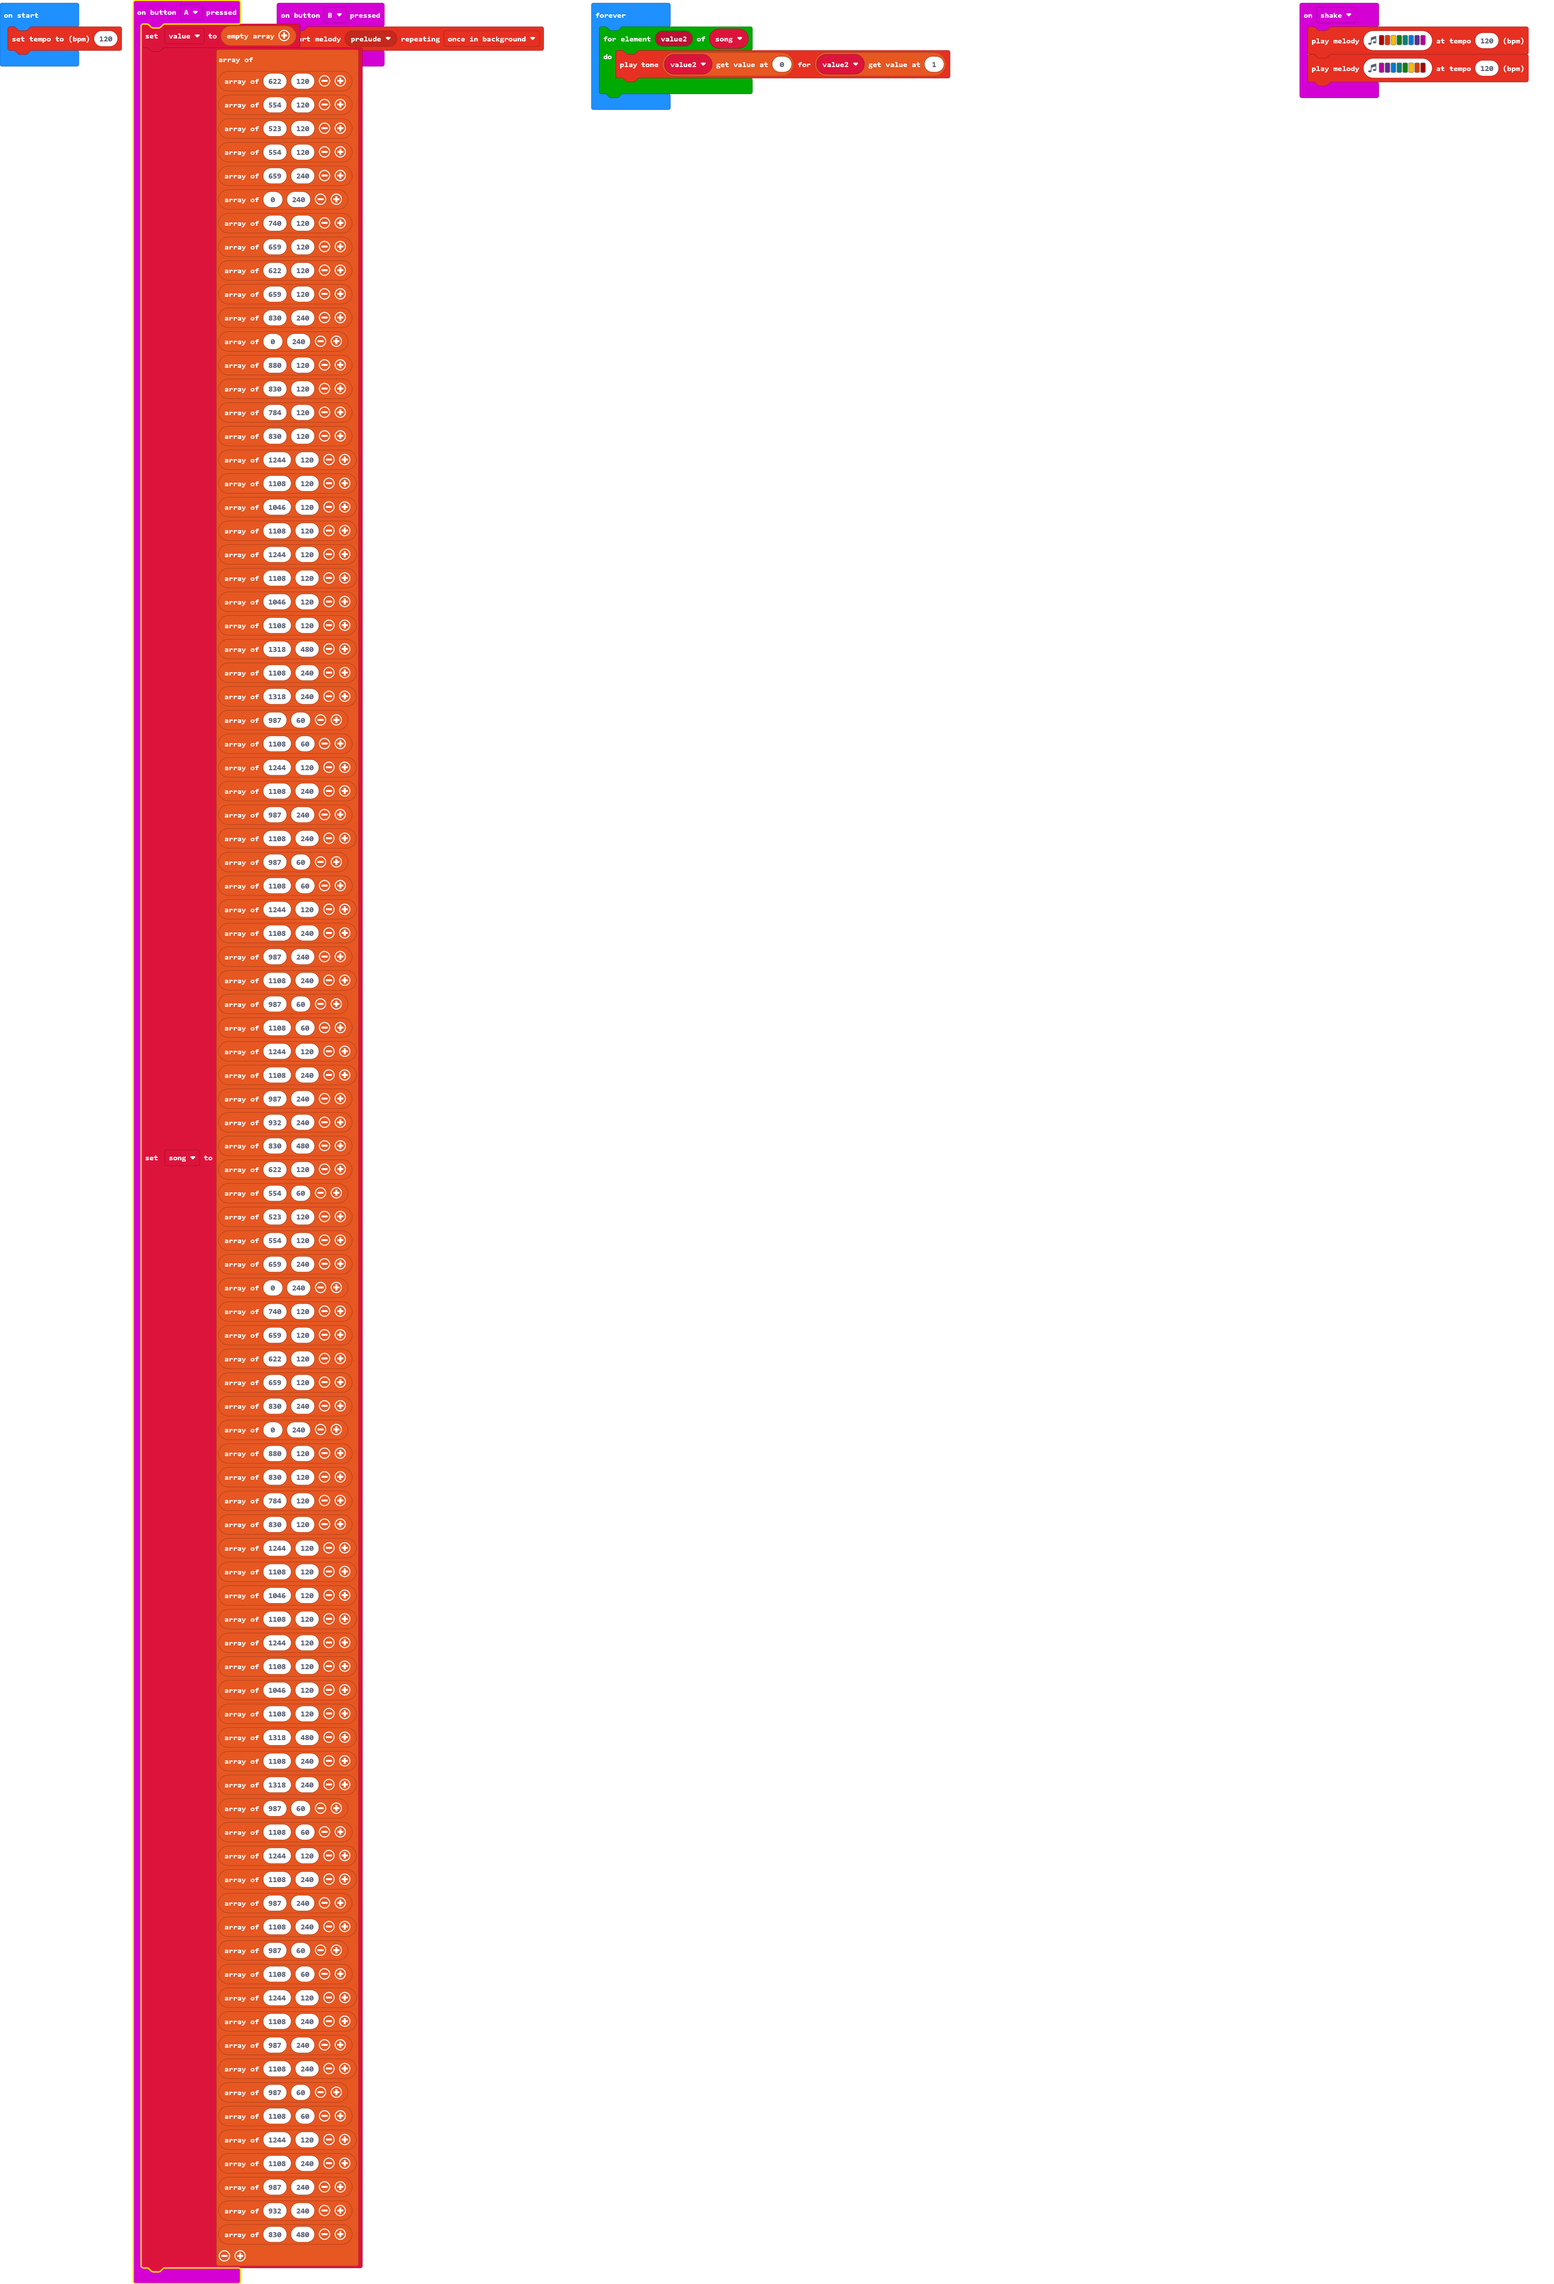
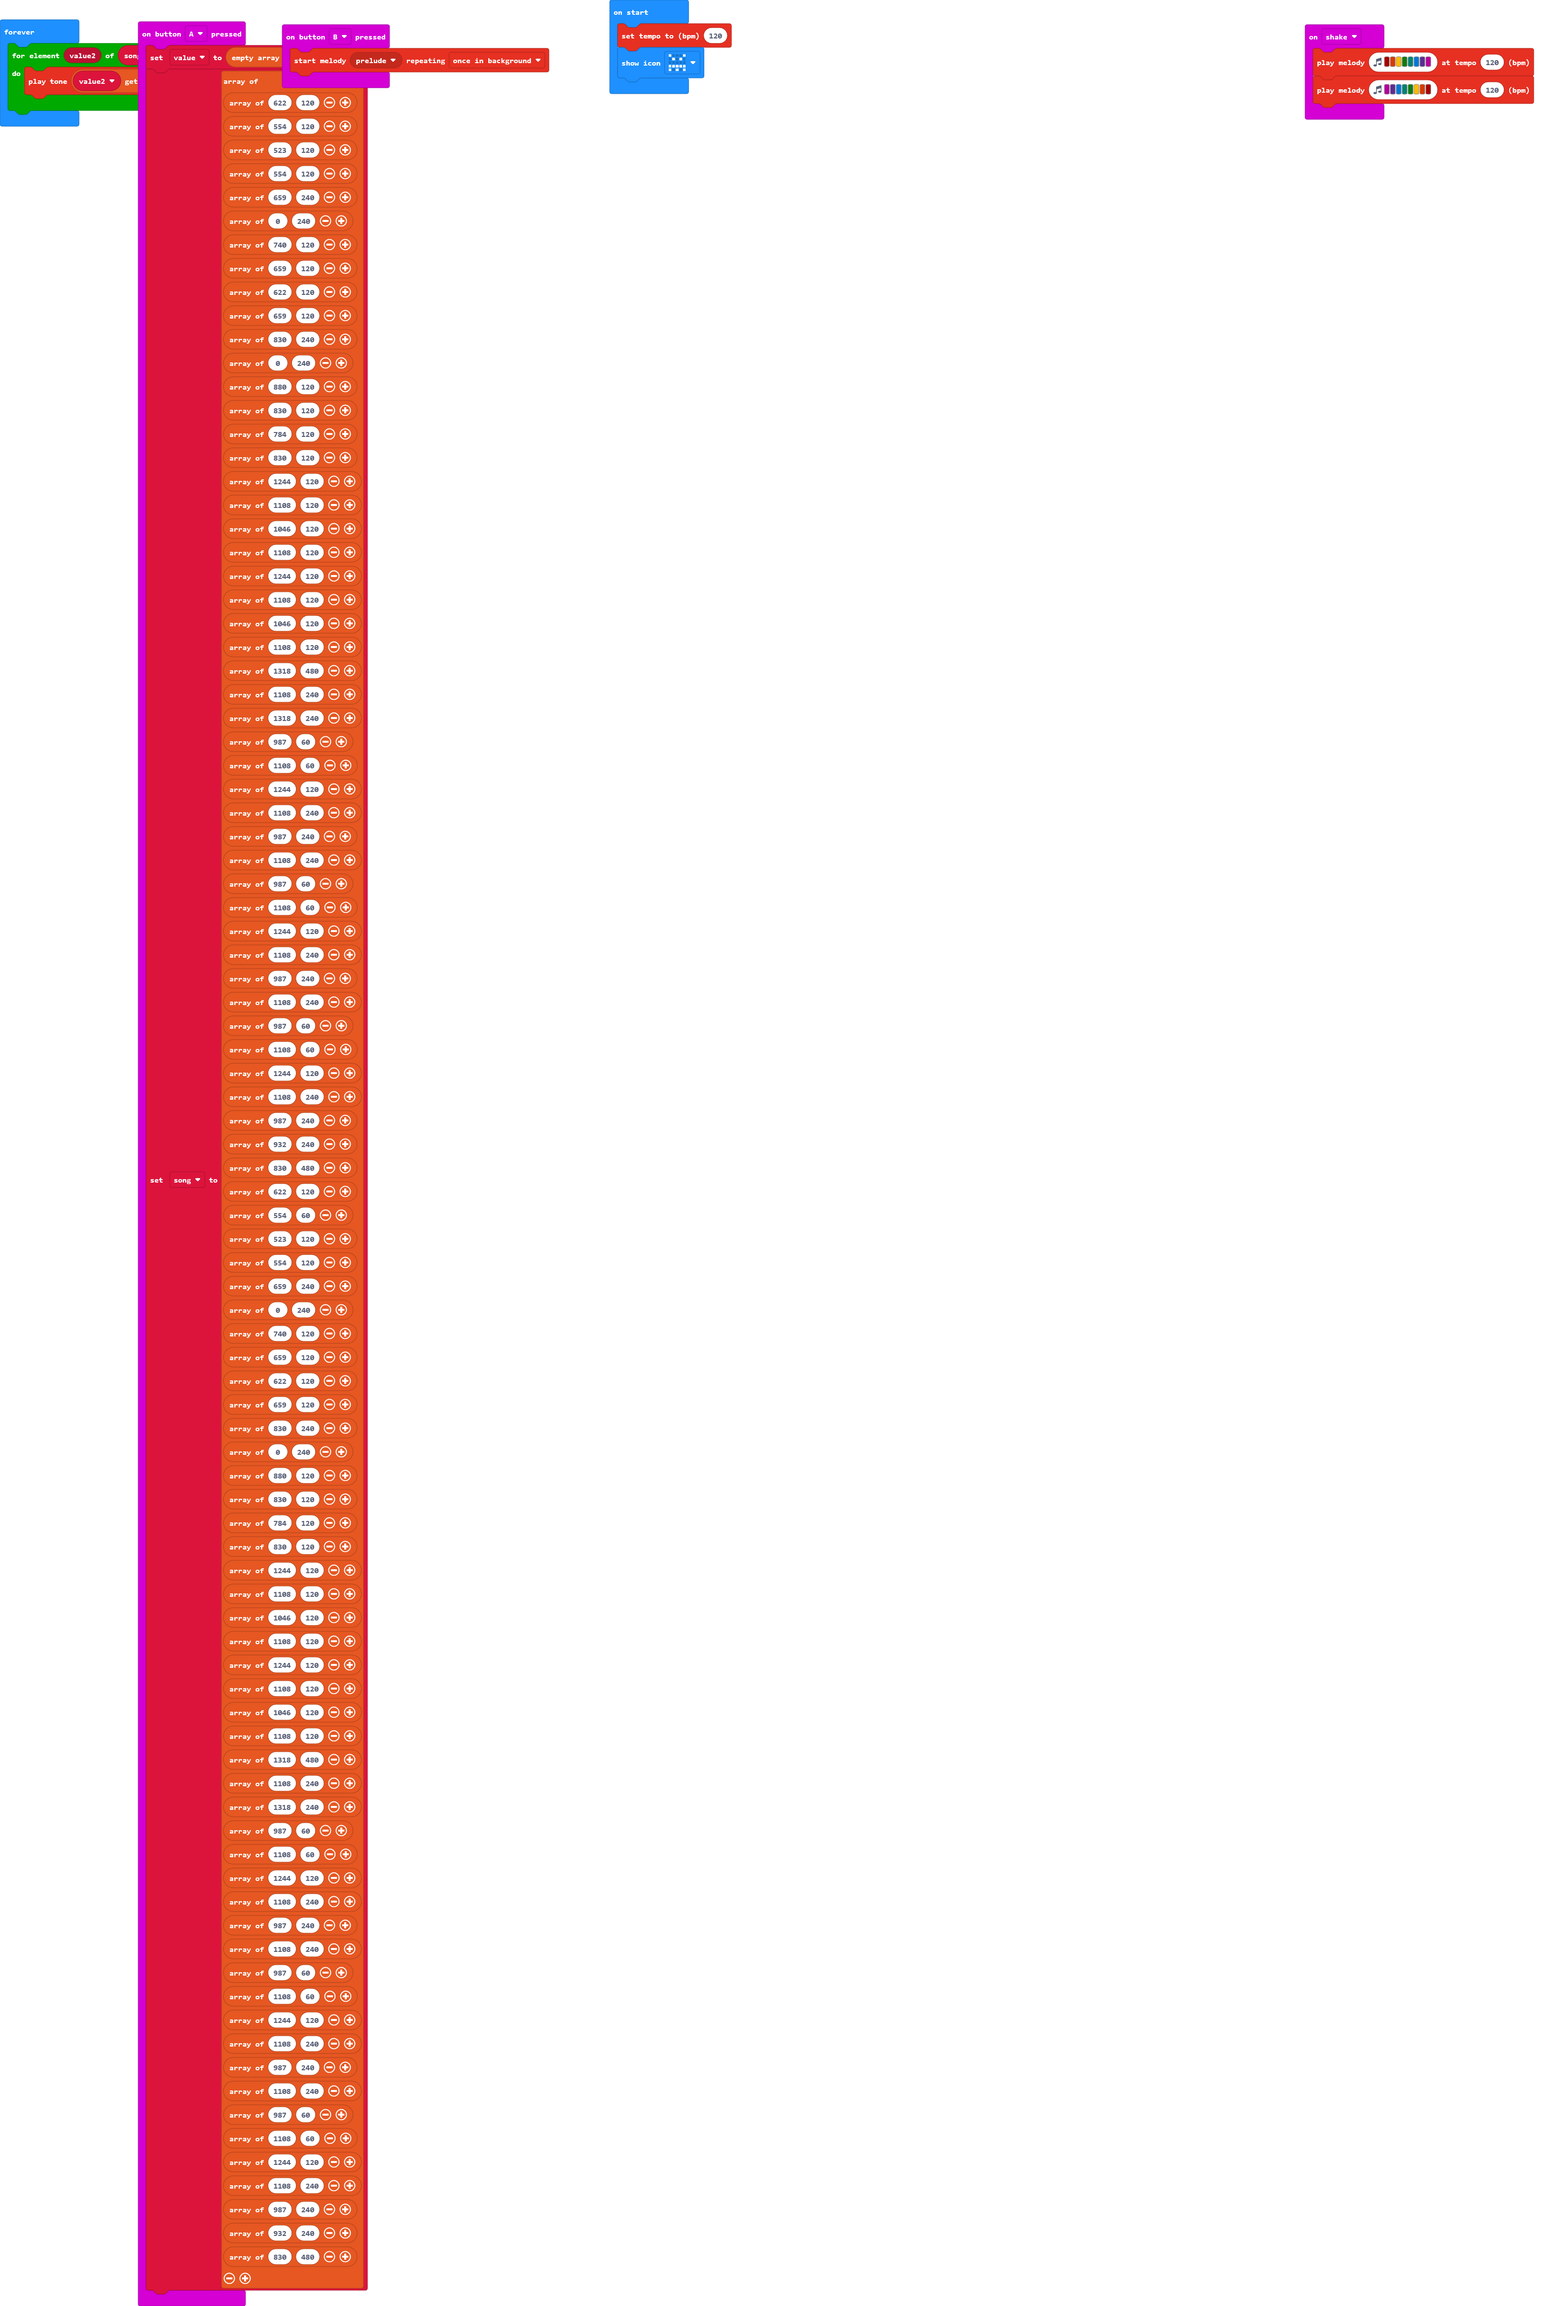
Update main.blocks, main.ts

Changed region(s): [[0.0, 0.0, 0.622, 1.0], [0.8397, 0.0, 0.9952, 0.0622]]

diff --git a/main.ts b/main.ts
@@ -12,6 +12,7 @@ input.onGesture(Gesture.Shake, function () {
 let song: number[][] = []
 let value: number[] = []
 music.setTempo(120)
+basic.showIcon(IconNames.Angry)
 basic.forever(function () {
     for (let value2 of song) {
         music.playTone(value2[0], value2[1])
